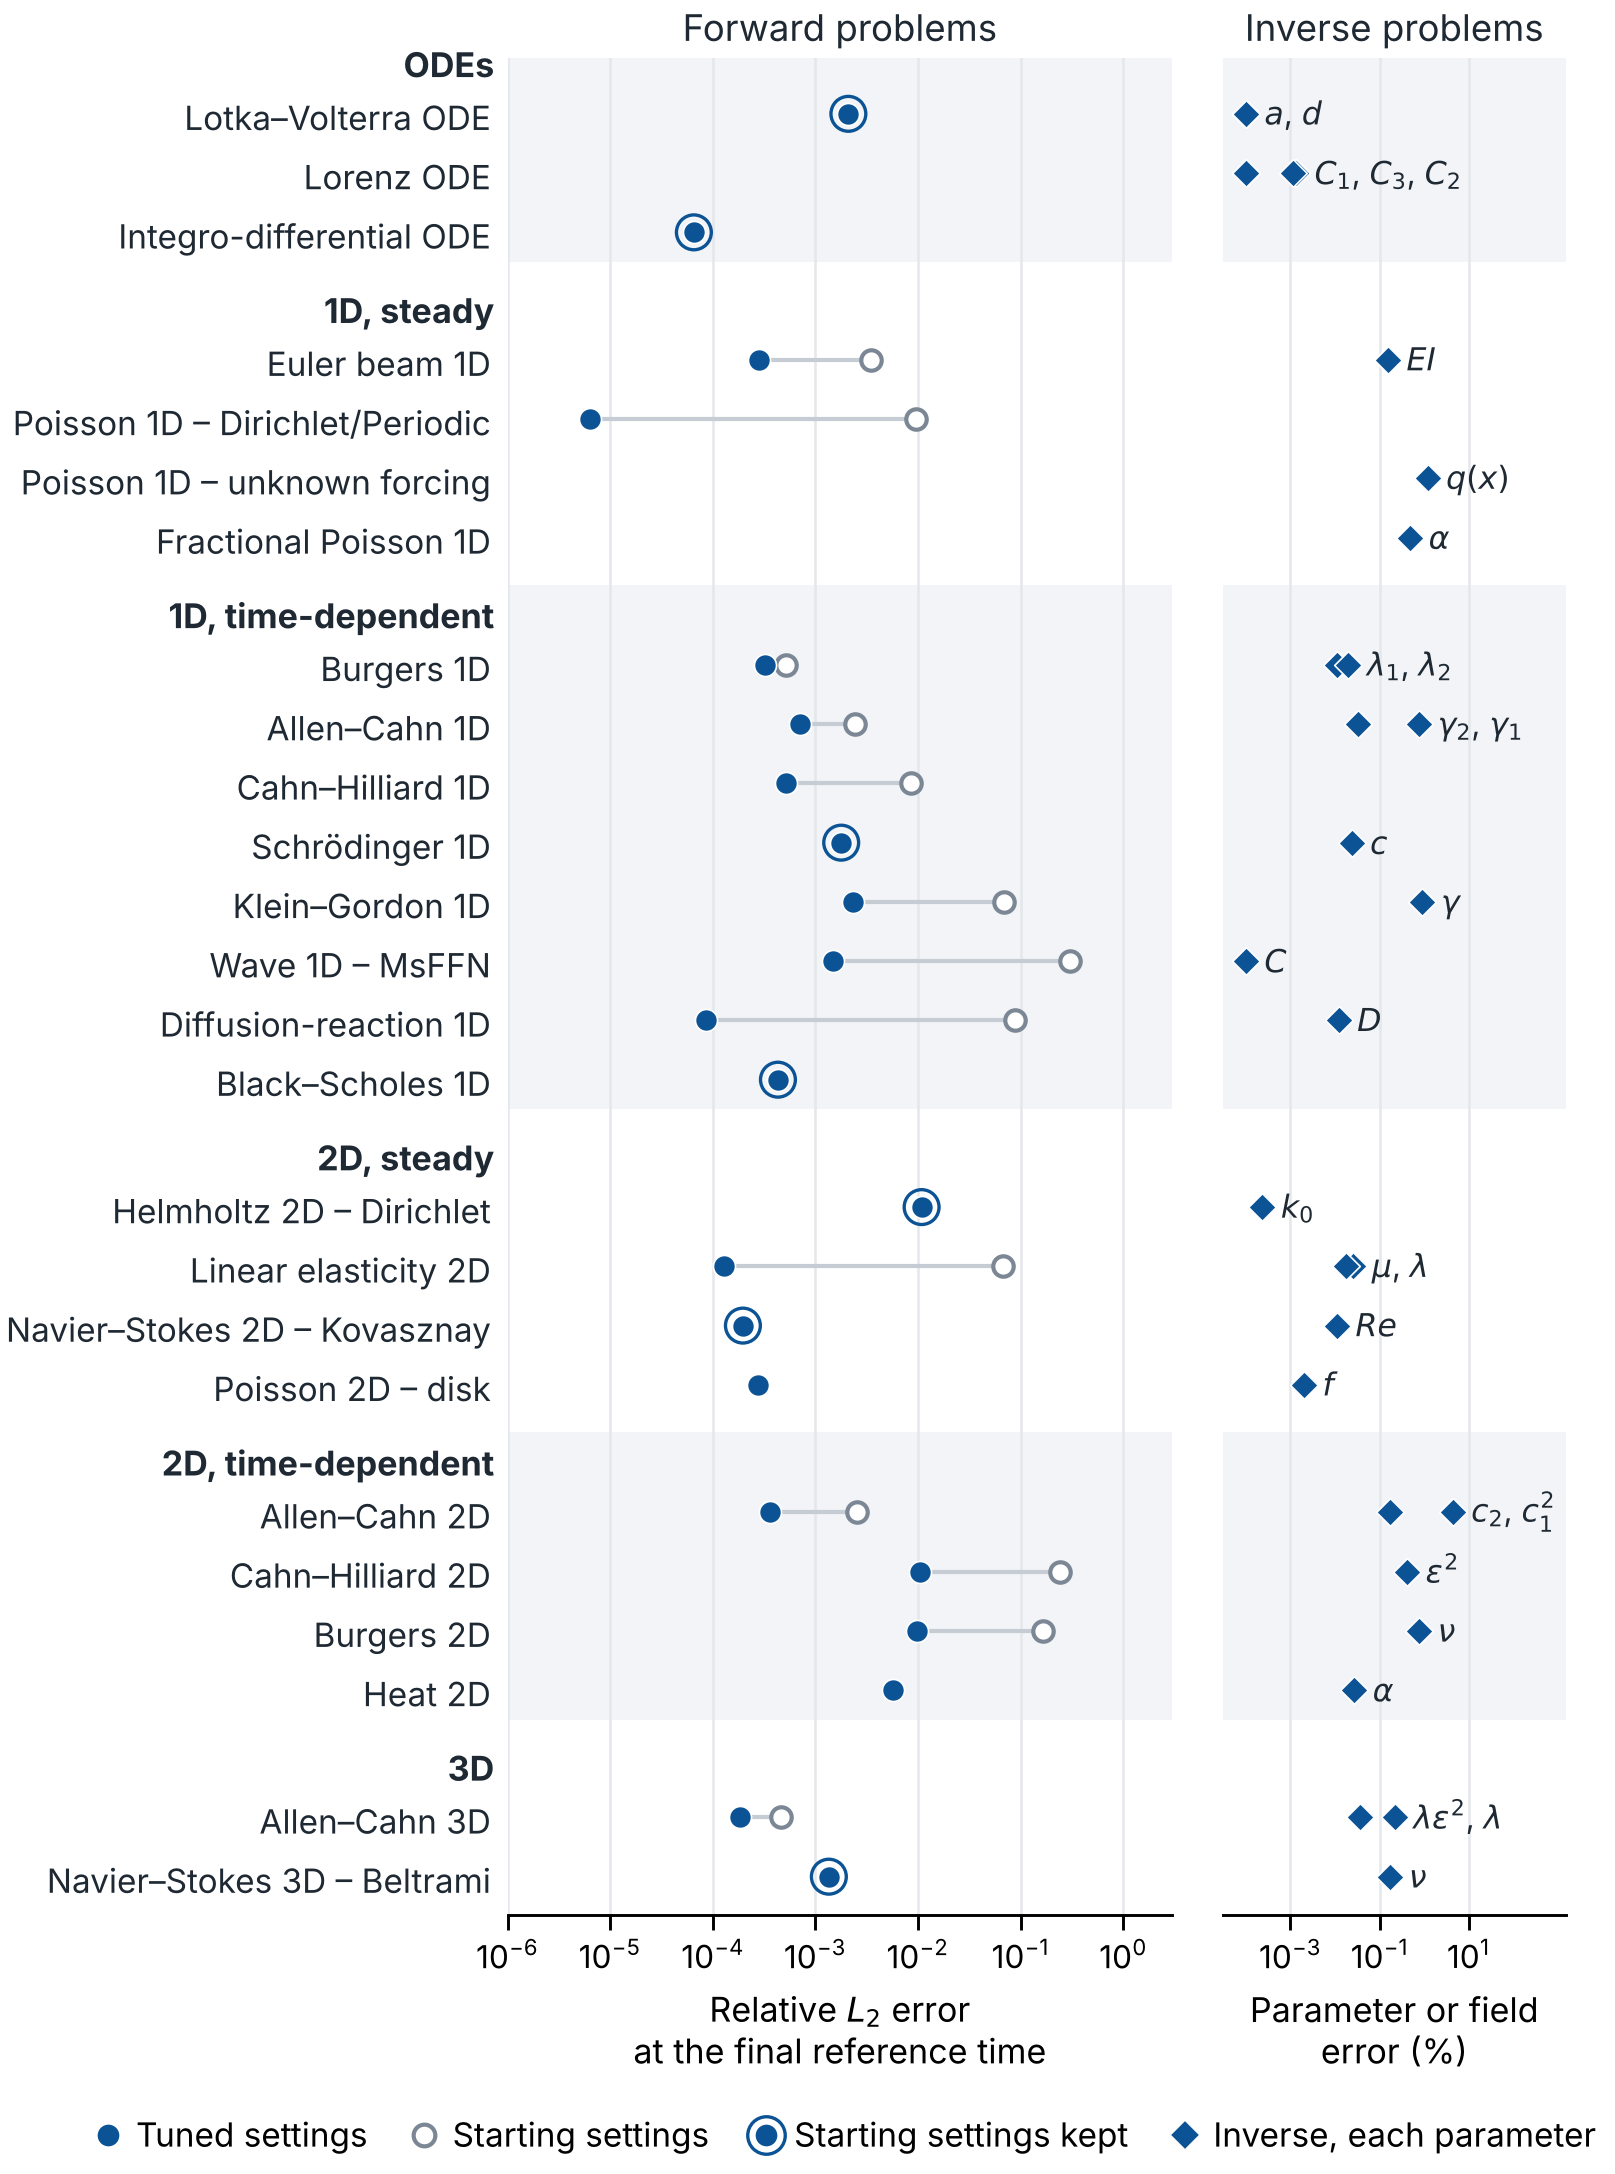
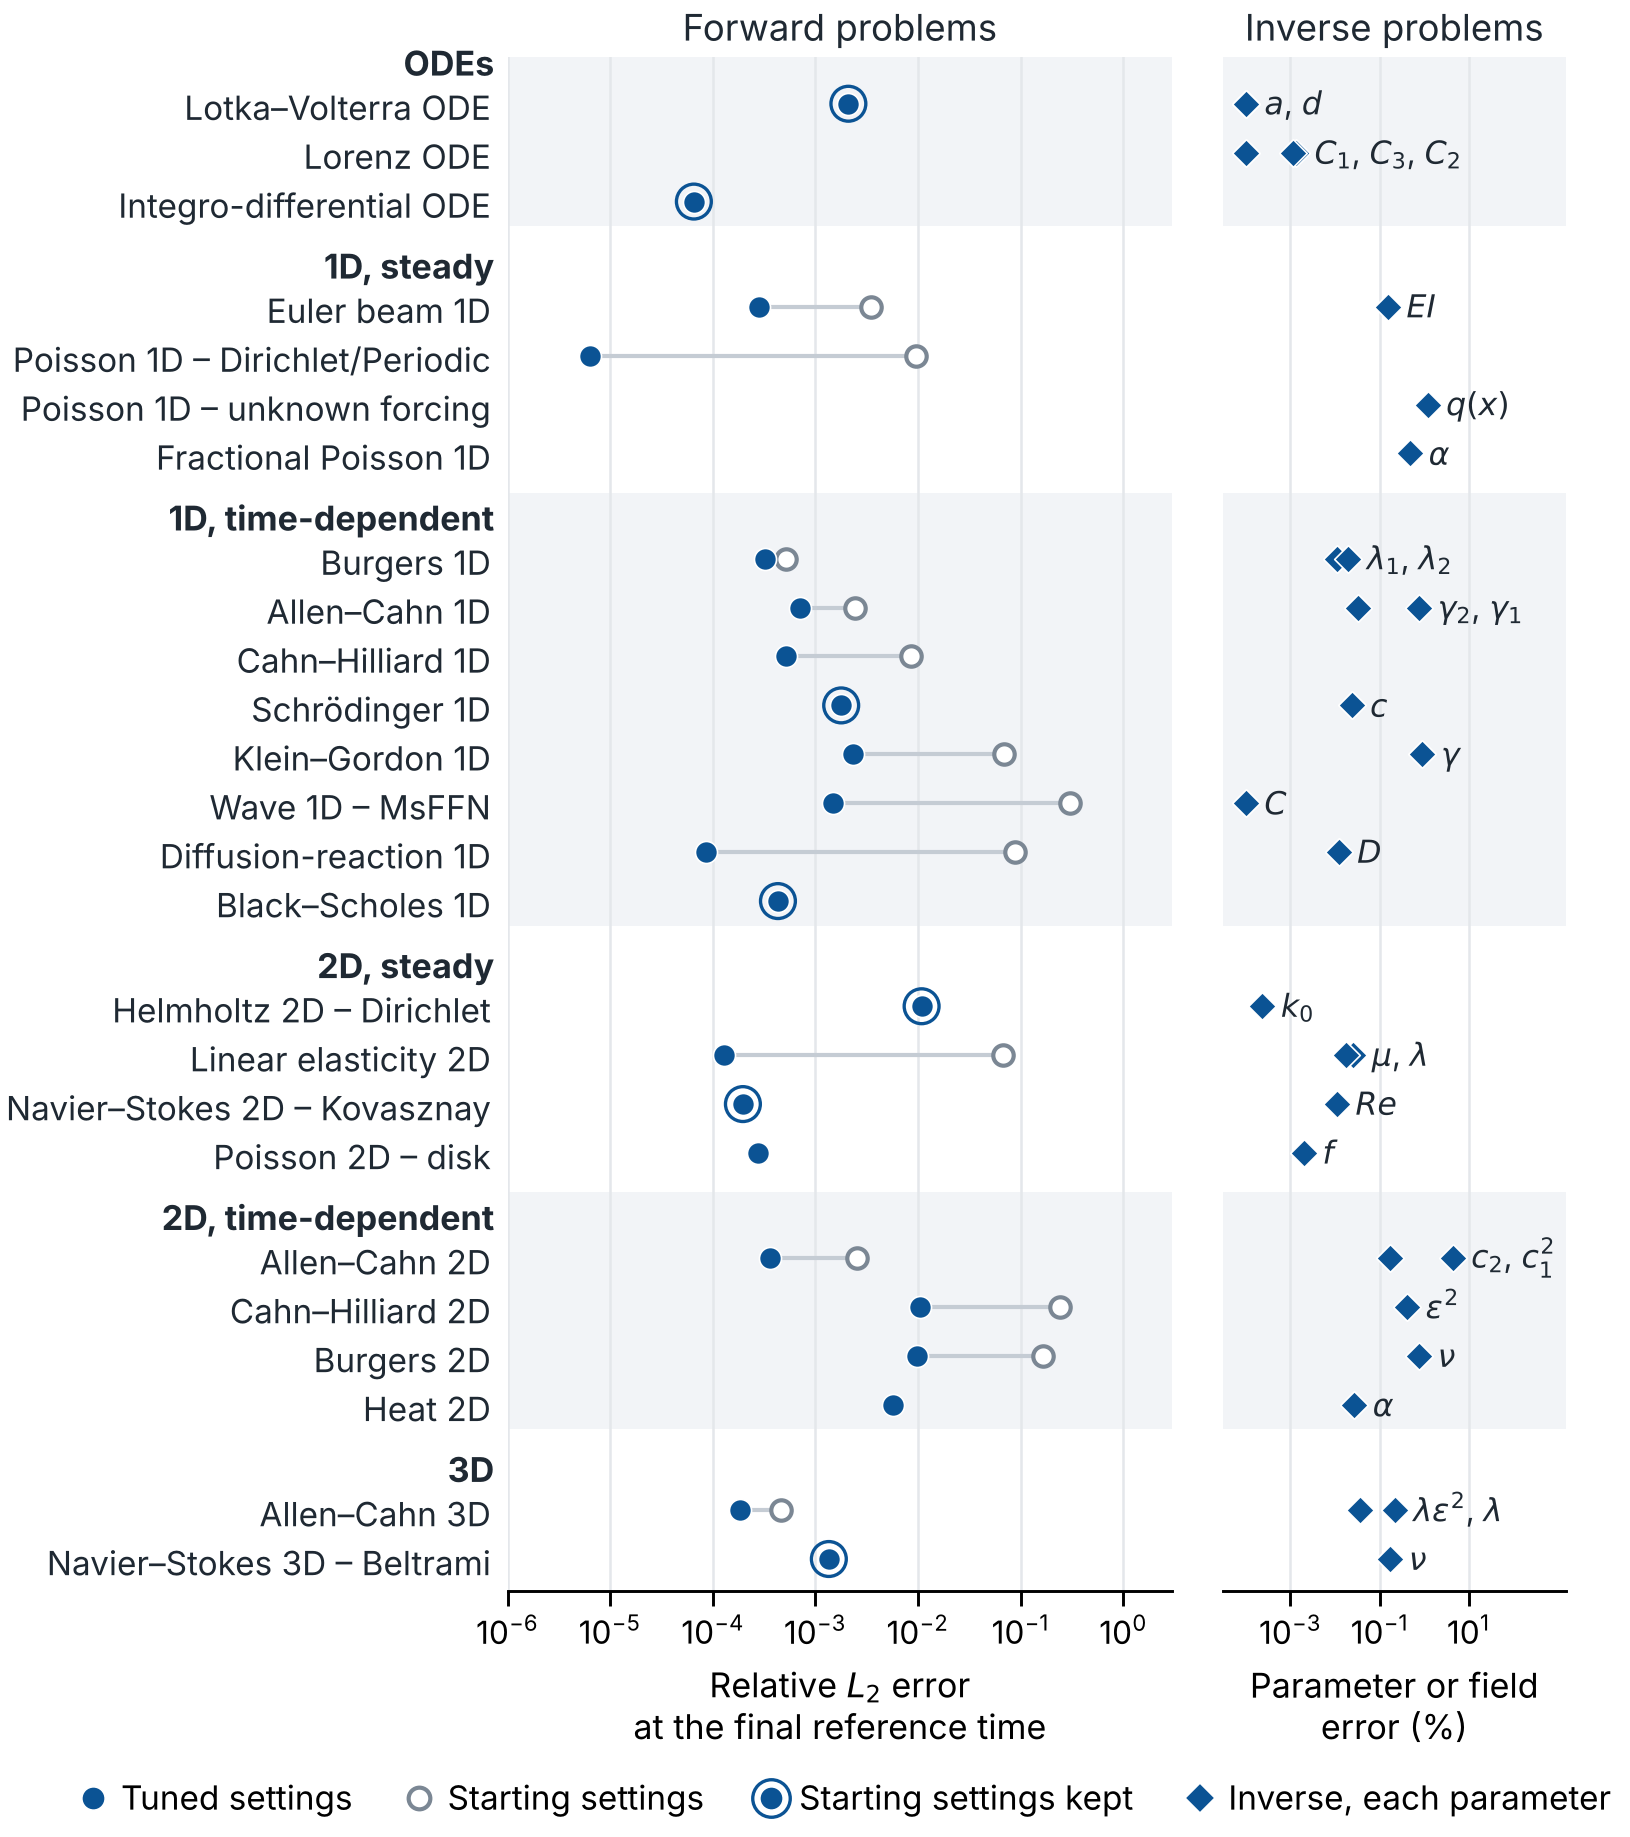
Figure 4: shorter rows so it fits on a page with its caption at text width; legend spacing

diff --git a/tools/make_benchmarks_readme.py b/tools/make_benchmarks_readme.py
@@ -906,7 +906,7 @@ def _paper_figure(rows, path):
         ypos[i] = yy; yy += 1.0
     H = yy
     Y = {i: H - v for i, v in ypos.items()}
-    fig, (ax, bx) = plt.subplots(1, 2, figsize=(5.6, 0.205 * H + 0.85), sharey=True,
+    fig, (ax, bx) = plt.subplots(1, 2, figsize=(5.6, 0.168 * H + 0.85), sharey=True,
                                  gridspec_kw={"width_ratios": [3.0, 1.55], "wspace": 0.1})
     for gi, (g, a, b) in enumerate(groups):
         if gi % 2 == 0:
@@ -972,9 +972,9 @@ def _paper_figure(rows, path):
          mk("D", 5.0, color=P_TUNED, markeredgecolor="white", markeredgewidth=0.4)]
     lab = ["Tuned settings", "Starting settings", "Starting settings kept", "Inverse, each parameter"]
     fig.legend(h, lab, handler_map={_Over: HandlerTuple(ndivide=1)}, loc="lower center", ncol=4, frameon=False,
-               fontsize=F["legend"], handlelength=1.0, handletextpad=0.35, columnspacing=1.2,
+               fontsize=F["legend"], handlelength=1.0, handletextpad=0.35, columnspacing=1.5,
                bbox_to_anchor=(0.5, 0.0), borderaxespad=0.0)
-    fig.subplots_adjust(left=0.30, right=0.93, top=0.96, bottom=0.115)
+    fig.subplots_adjust(left=0.30, right=0.93, top=0.96, bottom=0.13)
     os.makedirs(os.path.dirname(path), exist_ok=True)
     for out in (path, path.replace(".png", ".pdf")):     # cropped to the drawing, with a hairline margin
         fig.savefig(out, dpi=300, bbox_inches="tight", pad_inches=0.02)
@@ -1712,7 +1712,7 @@ def page(recs):
           "(the fastest one where several are within 25% of it); the tuning study's own pages also show which run the final "
           "training loss alone would pick. They are shipped as "
           "the *Tuned* presets, so each point can be reloaded and run again.\n\n"
-          "**Size.** The figure is cropped to the drawing, about 5.4 × 7.2 in with 7.6–8.8 pt text, so at the "
+          "**Size.** The figure is cropped to the drawing, about 5.4 × 6.2 in with 7.6–8.8 pt text, so at the "
           "text width of a typical journal page (5–5.5 in) the text stays at about 7–8.5 pt and there is room for "
           "the caption on the same page. The PDF keeps it sharp at any zoom. A caption to start from:\n\n"
           "> *PINNStudio on 25 representative forward and inverse problems, from ODEs to 3D PDEs. Left: relative "

diff --git a/benchmarks/paper.md b/benchmarks/paper.md
@@ -64,13 +64,13 @@
 
 **How "tuned" was chosen.** The tuned settings are the run of the recorded tuning study (and, for the paper templates, of the paper-method and training-methods runs) with the lowest error against the reference (the fastest one where several are within 25% of it); the tuning study's own pages also show which run the final training loss alone would pick. They are shipped as the *Tuned* presets, so each point can be reloaded and run again.
 
-**Size.** The figure is cropped to the drawing, about 5.4 × 7.2 in with 7.6–8.8 pt text, so at the text width of a typical journal page (5–5.5 in) the text stays at about 7–8.5 pt and there is room for the caption on the same page. The PDF keeps it sharp at any zoom. A caption to start from:
+**Size.** The figure is cropped to the drawing, about 5.4 × 6.2 in with 7.6–8.8 pt text, so at the text width of a typical journal page (5–5.5 in) the text stays at about 7–8.5 pt and there is room for the caption on the same page. The PDF keeps it sharp at any zoom. A caption to start from:
 
 > *PINNStudio on 25 representative forward and inverse problems, from ODEs to 3D PDEs. Left: relative L₂ error of the main output of each forward problem at its last reference time, with the starting settings (open circles: the DeepXDE example, or the original paper's method run in PINNStudio) joined to the settings selected in the PINNStudio tuning study (filled circles); a ring marks cases where the starting settings were kept. Right: relative error (%) of each parameter identified in the inverse problems, labelled with its symbol, and of the recovered field for the unknown-forcing problem. Full results, settings and the sources of the benchmark problems are in the software repository.*
 
 *The list: [`paper_figure_examples.txt`](paper_figure_examples.txt) (one name per line; change a line to swap an example). PDF: [`figures/paper_figure.pdf`](figures/paper_figure.pdf).*
 
-![The paper's figure: 25 examples, forward and inverse](figures/paper_figure.png?v=10b80fe6)
+![The paper's figure: 25 examples, forward and inverse](figures/paper_figure.png?v=67fa7af6)
 
 **The values in the figure.** Relative L₂ at the last reference time. *Starting settings* is given only where there is an outside starting point (DeepXDE's example or the paper's method run in PINNStudio). Where a setting was run with more than one seed, the value is the median with the range in brackets, and *Runs* gives the number of seeds.
 
